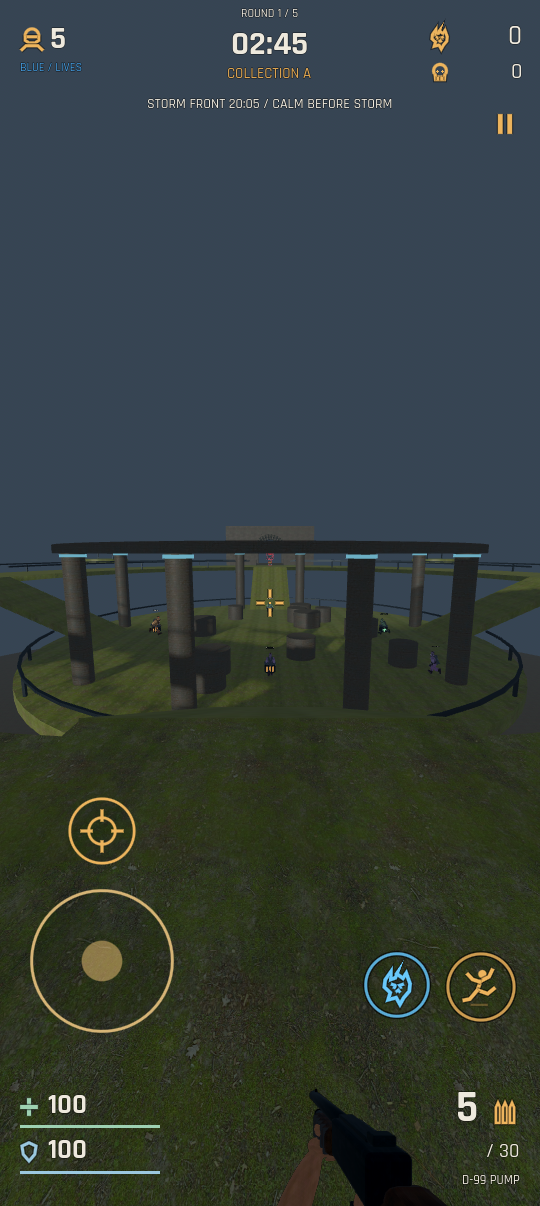
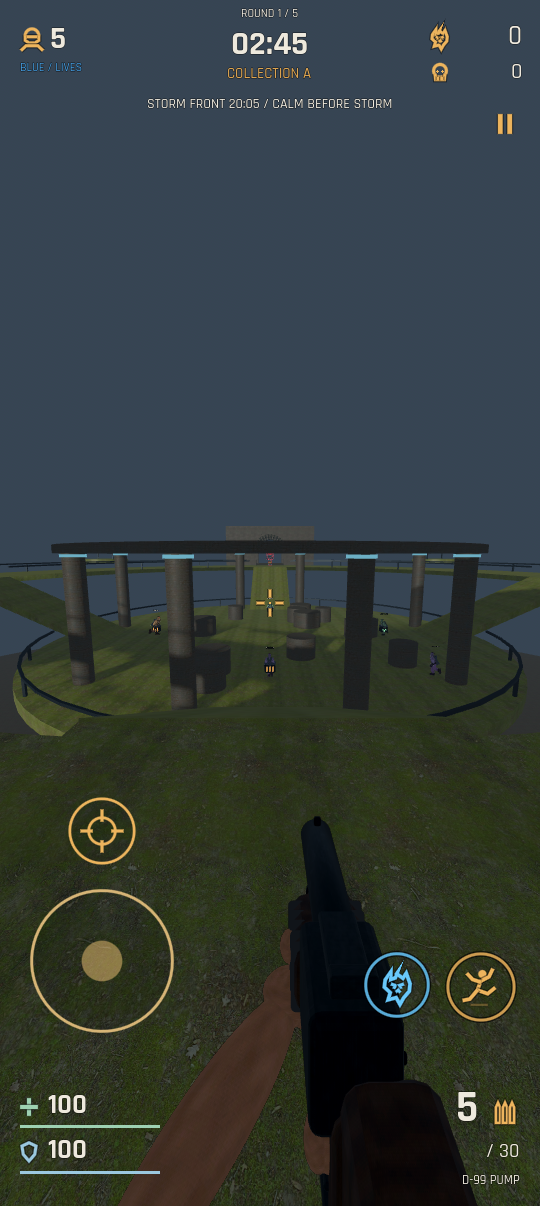
Center portrait weapon perspective and restore visible shotgun and hands

Changed region(s): [[0.2074, 0.675, 0.8889, 1.0]]

diff --git a/README.md b/README.md
@@ -2,7 +2,7 @@
 
 A dark sci-fi arena FPS for Android with free movement, portrait/landscape play, controller support, soul harvesting, and team deathmatches.
 
-**[Download APK — v0.9.1](https://github.com/Tweeksterr91/dominion-99-lite/releases/download/v0.9.1/dominion-99-lite.apk)** · **[Releases](https://github.com/Tweeksterr91/dominion-99-lite/releases)**
+**[Download APK — v0.9.2](https://github.com/Tweeksterr91/dominion-99-lite/releases/download/v0.9.2/dominion-99-lite.apk)** · **[Releases](https://github.com/Tweeksterr91/dominion-99-lite/releases)**
 
 Development prototype for the OnePlus 12R, built with Godot 4.6.3. Fixed **60 FPS cap**, automatic portrait/landscape rotation. Actual phone performance and Wi-Fi behavior still need device testing.
 
@@ -73,7 +73,7 @@ Touch controls hide when a controller is used and return on touch. The controlle
 
 The Godot splash image is disabled. Android may still briefly show the app icon during native startup. The title screen runs a real AI-controlled gameplay demonstration behind the logo. Tap to enter the main menu: **Single Player Campaign**, **Multiplayer**, **Options**, **Quit Game**, and art credits.
 
-The initial campaign is a sequence of bot matches across five biome maps, unlocked by winning: Verdant Ruins, Blue Catacombs, Ember Vault, Rootbound Forest, and Dune Coast. It is a match-based campaign foundation, without story cinematics. Options persist aiming sensitivity from 50%–300% in 10% steps, with a 180% reset, invert aim, separate effects/music/ambience volumes, camera motion, and the screen-orientation preference. Everyone starts with a five-shell, single-barrel pump shotgun. Other shop weapons currently share the older sidearm model with size adjustments. Anatomical first-person arms and an open harvesting hand use original PBR skin, steel, fabric and walnut textures. Portrait renders the hands and weapon in a transparent landscape-shaped frame anchored to the bottom of the screen. This preserves the landscape pose and crops the long forearms, independently of the world camera’s tall field of view. Shotgun pellets and enemy bolts travel visibly; collision, rather than an immediate hitscan, determines damage.
+The initial campaign is a sequence of bot matches across five biome maps, unlocked by winning: Verdant Ruins, Blue Catacombs, Ember Vault, Rootbound Forest, and Dune Coast. It is a match-based campaign foundation, without story cinematics. Options persist aiming sensitivity from 50%–300% in 10% steps, with a 180% reset, invert aim, separate effects/music/ambience volumes, camera motion, and the screen-orientation preference. Everyone starts with a five-shell, single-barrel pump shotgun. Other shop weapons currently share the older sidearm model with size adjustments. Anatomical first-person arms and an open harvesting hand use original PBR skin, steel, fabric and walnut textures. Portrait renders the hands and weapon separately with the same fixed vertical field of view used in landscape. Its full-screen projection keeps the barrel’s vanishing point at the actual crosshair. A tuned side/depth offset keeps the barrel, receiver and supporting hand visible while cropping excess forearm, independently of the world camera’s tall field of view. Shotgun pellets and enemy bolts travel visibly; collision, rather than an immediate hitscan, determines damage.
 
 ## Players, minions and audio
 
@@ -131,6 +131,6 @@ godot --headless --path . --script tests/match_rules_test.gd
 godot --headless --path . --script tests/ui_navigation.gd
 ```
 
-For the two-process LAN integration test, start `tests/lan_free_peer.gd -- host`, then `tests/lan_free_peer.gd -- client` in separate Godot processes on the same machine (UDP 27819). Both must report PASS. The test uses a landscape host, portrait guest, real ENet transport, controller movement/manual shots, synchronized conditions, shopping, shared rolls, hunting, and disconnected-player bot takeover. LAN protocol remains 9; v0.9.0 and v0.9.1 can connect. A second two-process test, `tests/lan_lock_peer.gd -- host` / `-- client` (UDP 27829), verifies optional LT acquisition, host-enforced charging, shooting and release between landscape/portrait peers. Older rail tests explicitly use `tests/legacy_fixture.gd` to cover the reusable earlier systems.
+For the two-process LAN integration test, start `tests/lan_free_peer.gd -- host`, then `tests/lan_free_peer.gd -- client` in separate Godot processes on the same machine (UDP 27819). Both must report PASS. The test uses a landscape host, portrait guest, real ENet transport, controller movement/manual shots, synchronized conditions, shopping, shared rolls, hunting, and disconnected-player bot takeover. LAN protocol remains 9; v0.9.0, v0.9.1 and v0.9.2 can connect. A second two-process test, `tests/lan_lock_peer.gd -- host` / `-- client` (UDP 27829), verifies optional LT acquisition, host-enforced charging, shooting and release between landscape/portrait peers. Older rail tests explicitly use `tests/legacy_fixture.gd` to cover the reusable earlier systems.
 
 Every update gets a numbered GitHub Release with a new APK. Increase `version/code` and `version/name`, keep the original signing key outside the repository, and verify the APK before upload. Current builds use development signing; store distribution requires release signing.

diff --git a/RELEASE_NOTES.md b/RELEASE_NOTES.md
@@ -1,9 +1,9 @@
-# v0.9.1 — Portrait weapon framing
+# v0.9.2 — Portrait weapon perspective
 
-Fixes the long, protruding forearms and shotgun in portrait. The first-person rig now uses its own transparent, landscape-shaped rendering frame at the bottom of the screen. It keeps the natural landscape pose and proportions while cropping the excess forearms; changing the world-camera FOV no longer exposes more of the arms. Landscape presentation stays the same.
+Corrects the overly small, low shotgun from v0.9.1. The weapon now uses a full-screen portrait projection with a fixed vertical field of view. The barrel’s perspective converges on the real crosshair instead of a point near the bottom edge. A tuned side/depth offset shows the barrel, pump, receiver and supporting hand while cropping excess forearm. Landscape keeps its existing pose and renderer.
 
-The harvesting hand and muzzle flash use the same frame. Touch passes through to the HUD. Reload lowering and the displayed/physical muzzle alignment are verified across portrait, landscape and tall-phone/tablet aspect ratios. The world view, crosshair, movement, lock-on and match progress stay independent of weapon framing.
+Updated portrait previews include tall-phone and standard portrait aspect ratios. Projection checks now enforce visible muzzle and receiver positions, center the barrel’s vanishing point, and verify displayed/physical muzzle alignment, rotation and complete reload lowering. Existing free-movement/projectile, lock-on, touch-control and menu checks pass.
 
-Install `dominion-99-lite.apk` over the existing game. Same package and signing certificate, versionCode 13. LAN protocol remains 9, compatible with v0.9.0.
+Download `dominion-99-lite.apk` and install over the existing game. Same package and signing certificate, versionCode 14. LAN protocol remains 9, compatible with v0.9.0 and v0.9.1.
 
-Validation: in-engine portrait/landscape captures; projection, rotation, muzzle alignment and reload checks; free movement/projectile combat, optional lock-on, touch controls and menu regression checks. Android hardware appearance and performance still need device testing. Original code: MIT; full asset attribution and licenses are in ASSET_CREDITS.md.
+The screenshots and checks were produced in-engine. Android hardware appearance/performance still needs device testing. Original code: MIT; component asset licenses and credits are in ASSET_CREDITS.md.

diff --git a/docs/ART_DIRECTION.md b/docs/ART_DIRECTION.md
@@ -1,3 +1,9 @@
+# Centered portrait weapon perspective (v0.9.2)
+
+The v0.9.1 bottom subframe made the weapon too small and shifted its vanishing point below the crosshair. The replacement uses a full-screen weapon projection with the landscape vertical field of view, plus a tuned lateral/depth offset. The barrel, receiver and supporting hand stay visible, excess forearm is cropped, and the weapon perspective converges on the actual screen-center crosshair. Landscape keeps its existing pose.
+
+Earlier iteration notes follow.
+
 # Portrait framing correction (v0.9.1)
 
 The hands/weapon render into a separate transparent landscape-shaped frame, anchored at the bottom of a portrait screen. The world camera keeps its own field of view. This crops the long forearms as landscape does and preserves the original pose, rather than translating the rig farther into the tall camera frustum. Landscape retains its original rendering path. The muzzle, harvesting hand and reload animation follow the framed presentation.
